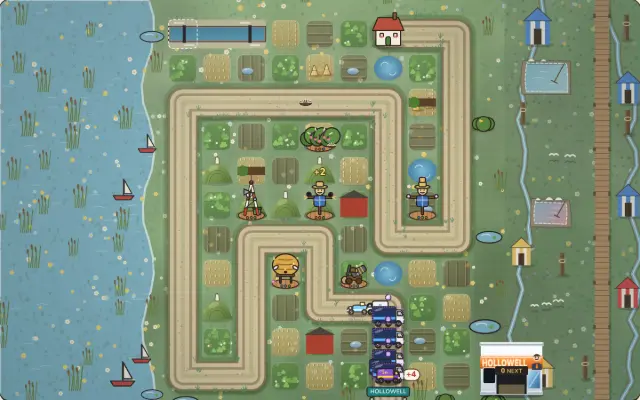
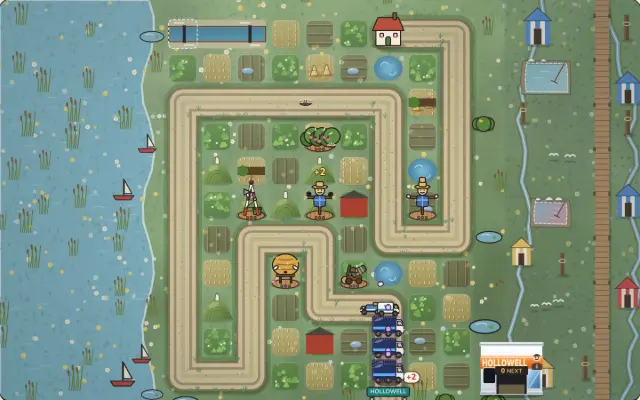
Item 307 slice 1: Hedgerow 3D sea mist off the plots, smooth wet flats with blue tide pools; key art re-shot; lane B wrap-up, release .build-lock-b
Claude-Session: https://claude.ai/code/session_01SimvMN1RHBGCWN7Eo7MzhN

Changed region(s): [[0.5312, 0.72, 0.6562, 0.96]]

diff --git a/games/hedgerow/src/render3d/terrain.ts b/games/hedgerow/src/render3d/terrain.ts
@@ -1069,7 +1069,9 @@ export function buildGround(level: Level): Ground {
     // Plan item 228: wet silt, grey-sand and silvered, with samphire greens and tide pools among it (the old browns,
     // stacked as pebbles, read as a band of mud at the phone's left edge).
     // Plan item 262: three colours in broad patches (silt, samphire, damp tide-pool grey; item 288: a pale grey read as broken white fragments on a phone), not six speckled cell by cell.
-    const [silt, samphire, pool] = ["#a39d80", "#8a9866", "#97a79b"].map((c) => new THREE.Color(c)) as [THREE.Color, THREE.Color, THREE.Color];
+    // Plan item 307: the tide pools hold water (a blue-grey that takes the light), so the flats read as wet marsh, not
+    // grey rock.
+    const [silt, samphire, pool] = ["#a39d80", "#8a9866", "#7f9fa8"].map((c) => new THREE.Color(c)) as [THREE.Color, THREE.Color, THREE.Color];
     const patchOf = (x: number, z: number): THREE.Color => {
       const v = 0.55 * Math.sin(z * 1.1 + x * 1.7) + 0.45 * Math.sin(z * 0.43 - x * 0.9 + 1.3);
       return v > 0.3 ? samphire : v < -0.5 ? pool : silt;
@@ -1135,7 +1137,8 @@ export function buildGround(level: Level): Ground {
     ])
       if (m) group.add(m);
     for (const m of [
-      instanced(new THREE.SphereGeometry(1, 10, 5), new THREE.MeshStandardMaterial({ roughness: 0.18, metalness: 0.08 }), flats),
+      // Plan item 307: smooth patches (16 x 8; at 10 x 5 their facets read as broken grey rock at the field's edge).
+      instanced(new THREE.SphereGeometry(1, 16, 8), new THREE.MeshStandardMaterial({ roughness: 0.18, metalness: 0.08 }), flats),
       instanced(new THREE.ConeGeometry(0.016, 0.36, 4).translate(0, 0.18, 0), new THREE.MeshStandardMaterial({ roughness: 0.9, flatShading: true }), reeds),
       instanced(new THREE.SphereGeometry(1, 8, 6), new THREE.MeshStandardMaterial({ roughness: 0.6 }), egretBody, true),
       instanced(new THREE.CylinderGeometry(0.008, 0.012, 0.12, 5).translate(0, 0.06, 0), new THREE.MeshStandardMaterial({ roughness: 0.6 }), egretNeck),

diff --git a/games/hedgerow/src/render3d/index.ts b/games/hedgerow/src/render3d/index.ts
@@ -531,7 +531,10 @@ export class Renderer3D {
       const airK = this.canvas.clientWidth > 0 && this.canvas.clientWidth < 600 ? 0.4 : 1;
       if (!hasTwist(lv, "rain")) this.motes.push(new Motes(Math.round(70 * airK), { kind: "pollen", color: mood.mote, size: 0.05, box, wind }));
       if (weather && !this.reducedMotion) {
-        this.motes.push(new Motes(Math.round(weather.count * airK), { kind: "pollen", color: weather.color, size: weather.size, box: weather.fall && weather.fall < 0 ? { ...sky, y1: 2.2 } : weather.fall ? sky : { ...box, y0: 0.1, y1: 0.9 }, wind: weather.wind * wind, fall: weather.fall, alphaMax: weather.alpha, additive: weather.additive }));
+        // Plan item 307: the coast's sea mist and spray (soft puffs a cell across) drift over the water, not the plots,
+        // where they read as white blobs in front of the field.
+        const still = weather.size >= 1 ? { ...box, x0: -5, x1: -0.7, y0: 0.1, y1: 0.9 } : { ...box, y0: 0.1, y1: 0.9 };
+        this.motes.push(new Motes(Math.round(weather.count * airK), { kind: "pollen", color: weather.color, size: weather.size, box: weather.fall && weather.fall < 0 ? { ...sky, y1: 2.2 } : weather.fall ? sky : still, wind: weather.wind * wind, fall: weather.fall, alphaMax: weather.alpha, additive: weather.additive }));
       }
       const coast = lv.id > 20 && lv.id <= 30 ? true : lv.id > 50 && lv.id <= 60;
       if (mood.birds && !hasTwist(lv, "fog")) this.birds = new Birds(mood.birds, cx, cz, span, false, coast ? "#f4f2ec" : "#3b3540");

diff --git a/PROGRESS.md b/PROGRESS.md
@@ -6,7 +6,7 @@ Short by design (SPEC 16: under 150 lines). v1's full history (M0 to M7, every s
 - Owner session (11-09): the owner's release never landed and the pause ended 11-11 02:00 UTC. **Open:** Hedgerow level 12 at D: since item 250's portrait the bubble covers 21% of empty plots; the D bound is 30% there until the placement is reworked.
 - Lane A (02:51, 11-11): item 299 done (/games/ backdrop is a market square at dusk). Item 300 slice 1: the Ghost carries the Widowmaker by the fore-end (muzzle 0.15 m lower, lean 0.2 -> 0.3), clear of the frame top; a thin rod above her raised hand still runs to the top at D (likely the street sign's bracket, not her prop: check next slice). **`main` is still 9b4bfcf (11-04): release at 19:51.** Gate 7's throttled AI-teammate timing now runs alone (lane B, 11-08); if it still fails, profile the hand-over render.
 - Critique bugs from the 09:35 shots (`e2e/screenshots/plan1103d/`): NIGHT SHIFT wordmark 'H's: closed 2026-11-07 06:30 (lane A: whole at L and D at 8 s and 20 s; the SVG path, no dash left). Runnel P's spring house and garden: closed 2026-11-04 (item 106).
-- Lane B (03:21, 11-11): item 267 done (held land at full chroma, measured); item 297 slices 3-4 (the 3D field's coaching ring and ghost; on a phone's close frame a plot in view; left: the docked panel line at D); item 309 claimed, slice 1 (locked chapters as line art). **`main` is still 9b4bfcf (11-04): lane A releases at 19:51.** Lane B's open items: 268, 282, 285, 297, 309. Unclaimed: 300, 305-308, 310.
+- Lane B (04:21, 11-11): items 308 (a solved Runnel valley greens over; key art re-shot) and 309 (campaign: chalk tally, P plate in the first screen, a motif per chapter) done; item 307 claimed, slice 1 (Hedgerow 3D: sea mist off the plots, smoother wet flats). **`main` is still 9b4bfcf (11-04): lane A releases at 19:51.** Lane B's open items: 268, 282, 285, 297, 307. Unclaimed: 305, 306, 310.
 - Critique bugs from the 2026-11-08 08:15 shots (`e2e/screenshots/plan1108b/`, lane A): `hedge-menu-D` the act-4 'Beyond the hedge' note cut at the viewport foot (527-913 x 850-900, likely just the scroll); `hedge-menu-P` Hollowell boards beside 'The Unboxing' (10-100 x 380-405) and 'Golden Hour' (10-100 x 455-480), a block against 'Brand Ambassador' (320-385 x 515-555). The rest went into items 282, 283, 287 and 288.
 - Critique bugs from the 2026-11-05 09:30 shots (`e2e/screenshots/plan1105c/`, lane B): `cath-title-D` pennant hint ~13 px white on brown (1030-1280 x 800-818) and footer ~12 px (310-1130 x 872-886); `cath-title-P` small keys' labels ~12 px (85-305 x 692-735); `cath-setup-D` seed 'random' low contrast (655-840 x 795-835); `hedge-l34-2d-D` '485 coming' over a farmer (300-395 x 128-150); `hedge-menu-P` 'Brand Ambassador' (closed 2026-11-07 06:35 lane A: on its own label pill beside stop 30, off the road); `ns-title-D` neon sign clipped at the top (790-1150 x 0-45); `ns-play-P` FIXER tab cut (340-390 x 68-82); `games-P` hero ghosted (likely shot mid-entrance: check before fixing).
 - Critique bug seen 2026-11-04 13:30 (lane A, 1280x800): a Not-yet name cut on a 1280 desktop. Fixed 2026-11-04 14:15 (item 104 slice 1).
@@ -38,6 +38,7 @@ None (Vercel deployed 9aee11e on 2026-10-12). (The App Store launch is postponed
 - 2026-10-21 22:44 `5109694`: CATHODE C15 "Armour that breaks, enemies that stagger" (armour/stagger/wounds sims, plates that crack with an amber seam, collapse and fall as rigid pieces, shattered visors over modelled faces, front/back/side staggers, knockdown and get-up, disarm with sidearm draw, limp/hanging arm/crawl, riot shield breaks in three, crit and takedown windows). All gates passed first try (1525 tests, Lighthouse 91); live version.json matches; browser smoke inconclusive (sandbox proxy), HTTP check passed; tag push 403 (harmless). 2nd release today.
 
 ## Session log (newest first, last 15)
+- **2026-11-11 04:21 lane B session:** CI green on 1dc162f. Items 308, 309 done; 307 slice 1. Passing: campaign specs at P and D (50), accessibility; runnel-greened (new), -valley, -win, -board, -week-valley, -fields, -water (37); hedgerow-3dframe, -biome3d (35); keyart-fresh after Runnel and Hedgerow re-shoots; ui-css-lint; tsc, eslint. Shots scratchpad tally-*, campP, vig-*, rv-*, h307.
 - **2026-11-11 02:51 lane A session:** CI green on a536be3 (a04ee60's red was a cancelled run). Pause over. Item 299 done in 3 slices; item 300 slice 1. Passing: games-backdrop (new), games-stall, -cards, -hero-cath, -cath, critique104/79, poster-play, site-header, site.spec (two parallel flakes passed alone); ui-css-lint; tsc, eslint. Full `npm run check` not run (time). Shots scratchpad g299-*, ns300-*.
 - **2026-11-11 03:21 lane B session:** CI: 5ebf832's red was a cancelled run. Item 267 done, 297 slices 3-4, 309 slice 1. Passing: hedgerow-3dframe, -closeframe (P and D, 18), -threat (P); campaign-cath, -spread, -vignettes, -map (36); ui-css-lint, keyart-fresh; tsc, eslint. Shots scratchpad h297, h297b, seal-D, glz-*.
 - **2026-11-11 02:23 lane B session:** CI green on 38bc760. Pause over (FEEDBACK note removed by the owner). Item 311 done in 3 slices. Passing: games-cards, -hero-cath, -stall (25); hedgerow-closeframe (P); ui-css-lint. Shots scratchpad g311-D/P, h311.
@@ -52,4 +53,3 @@ None (Vercel deployed 9aee11e on 2026-10-12). (The App Store launch is postponed
 - **2026-11-08 16:51 lane A session:** CI: runs since 38482c7 cancelled by newer pushes (none red). Item 289 slice 3. Passing: e2e-site cathode-front, -classpick, -title-diorama (63, 17 skipped by project); cathode-silhouettes, -classposes, -models, -frontwet (117); keyart-fresh after the NIGHT SHIFT re-shoot; tsc, eslint. No new meshes (draw calls unchanged). Shots scratchpad f289c.
 - **2026-11-08 16:21 lane B session:** CI green on 98fa002. Planning (297-304); 304 done. Passing: hedgerow-3dframe, -biome3d, -closeframe (38); board-pieces (it failed on HEAD before: an Outlet's hard shadow from item 282 met its neighbour), board-scales (one flake), board-scale; keyart-fresh.
 - **2026-11-08 15:51 lane A session:** CI: runs since 2b38ed0 were cancelled by newer pushes (none red). Item 289 slice 2. Passing: e2e-site cathode-front, cathode-title-diorama (50, 12 skipped by project); cathode-frontwet; keyart-fresh after the NIGHT SHIFT re-shoot; tsc, eslint. Draw calls unchanged (shader-only change). Full `npm run check` not run (time). Shots scratchpad f289.
-- **2026-11-08 15:21 lane B session:** CI green on 2b38ed0 (8905a0d's red was a cancelled run). Item 292 done. Passing: cath tests (1015) incl. new cath-full-body; campaign-cath (viewBox updated), campaign, -map, -spread (48); games-cath, -hero-cath, -stall, hedgerow-map, -journey, -cath2d (57, then 51); keyart-fresh.

diff --git a/docs/plan/two-week-plan.md b/docs/plan/two-week-plan.md
@@ -2957,7 +2957,7 @@ The items come from fresh-eyes audits on 2026-11-01 and 2026-11-02 (items 25-32:
 - **Accept:** face 60 px+ wide on ns-play-D, 40 px+ on ns-play-P; skin mean luminance 55-85% with eyes and lips 3:1 against it; cathode-perf in budget; cathode specs pass; shots of title and pick at P and D.
 - **Size:** 2
 
-## 307. [ ] Hedgerow 3D: a finished world edge, and a phone camera that frames the field *(lane B, in progress)*
+## 307. [ ] Hedgerow 3D: a finished world edge, and a phone camera that frames the field *(lane B, in progress)* *(slice 1, 2026-11-11 04:50 lane B: the coast's sea mist and spray (soft puffs a cell across) drift over the water only (x < -0.7), not over the plots where they read as white blobs; Saltmarsh's flats are smooth patches (16x8 spheres, were 10x5 facets that read as grey rock) with blue-grey tide pools (#7f9fa8, was grey #97a79b); key art re-shot; 3dframe, biome3d pass at P and D (35); shot scratchpad h307 D. Left: the flats still read as overlapping discs (a continuous mud sheet with a foam line?), objects cut by the canvas top at D, every plot column inside the P close frame)*
 - **Why:** `plan1108e/hedge-l21-3d-D` (0-130 x 80-560): the left edge is grey faceted rock with no water surface; objects sliced by the top edge (870-940 x 72-85, trees 400-500 x 72-140); white out-of-focus blobs over the field (220-260 x 815-860, 600-650 x 710-745). `hedge-l21-3d-P` (0-100 x 60-680) the same cliff, and the field's right column is cut at x=390, the depot roof at the top (150-250 x 55-110).
 - **Build:** the diorama's edge as a crafted base: marsh water with a foam line and reeds, a soil skirt under the field; on a phone the camera fits the field's bounds in portrait (Whole Field stays a toggle); motes never sit between the camera and a plot.
 - **Accept:** no untextured grey geometry in either l21 3D shot; every plot column inside the phone frame; nothing cut by the canvas top; no mote over 12 px across a plot; hedgerow-3dframe, -closeframe, -biome3d pass; key art re-shot; shots P and D.

diff --git a/docs/archive/PROGRESS-v1.md b/docs/archive/PROGRESS-v1.md
@@ -3969,3 +3969,4 @@ want reminded of mid-game without leaving the Farm sheet. Full detail in DECISIO
 - **2026-11-08 13:51 lane A session:** CI: the red 256c8fd was a cancelled run (129e0e8 in progress). Item 284 slices 3-4 and done, 287 slice 1. Passing: hedgerow-cath3d unit (5); hedgerow-cath3d, -3dframe, -folk e2e (27); keyart-fresh; ui-css-lint, ledger-ink, player-mat; tsc, eslint. D l21 draw calls 658 -> 662. Full `npm run check` not run (time). Shots scratchpad before, a1-a3, dark, c287.
 - **2026-11-08 14:21 lane B session:** CI green on 3b5f210. Items 293 and 291 done. Passing: hedgerow-rack, -tray (13); board-scale, table-hand, desktop-no-scroll, action-hand, board-diorama, moments, quick-game, tutorial, turn-show.
 - **2026-11-08 14:51 lane A session:** CI: c2ae20d's red was a cancelled run. Item 287 slices 2-3 and done, 289 slice 1. Passing: player-mat (new animate/sketch test), ledger-ink, action-hand (peek shows a back), table-hand, desktop-no-scroll (one parallel-load timeout passed alone), tutorial, phone-hand-fan, moments, screenshots; ui-css-lint; cathode-frontwet; tsc, eslint. The game shot now waits for the deal to settle. Seen at D round 5 (lane B's 291 hand): Open Stall's card overlaps Buy Wholesale Account's price (1100-1320 x 765-860). Full `npm run check` not run (time). Shots scratchpad r5, f289.
+- **2026-11-08 15:21 lane B session:** CI green on 2b38ed0 (8905a0d's red was a cancelled run). Item 292 done. Passing: cath tests (1015) incl. new cath-full-body; campaign-cath (viewBox updated), campaign, -map, -spread (48); games-cath, -hero-cath, -stall, hedgerow-map, -journey, -cath2d (57, then 51); keyart-fresh.

diff --git a/DECISIONS.md b/DECISIONS.md
@@ -384,3 +384,5 @@ Newest at the bottom. At most 5 lines per entry, under 250 lines in all (SPEC 16
 - 2026-11-11 03:35 lane B (item 267): closed on a measure, not a new prop: held land's chroma is 100% of free (the glaze is an edge band), and every held hex already carries a glossy billboard; the Outlets are glossy miniatures, so no billboard per Outlet.
 - 2026-11-11 03:40 lane B (item 297): on a phone's close 3D frame her coaching means the best plot in view (suggestedPlot's `allow`), not the field's best off-screen.
 - 2026-11-11 04:55 lane B (item 309): locked chapters keep item 279's dusk and wax seal with their scene as line art, no kraft wrapper on top; each chapter got its own foreground motif so no two plates read alike.
+- 2026-11-11 04:45 lane B (item 308): the solved valley greens to `--wet-field`, far rows first; crop fields (already pale green) are judged by deepening, tan fields by a 30-degree hue turn (runnel-greened spec).
+- 2026-11-11 04:50 lane B (item 307): large still weather motes (Saltmarsh mist, Shingle Bay spray) keep to the sea strip; they bloomed as white blobs over plots.
